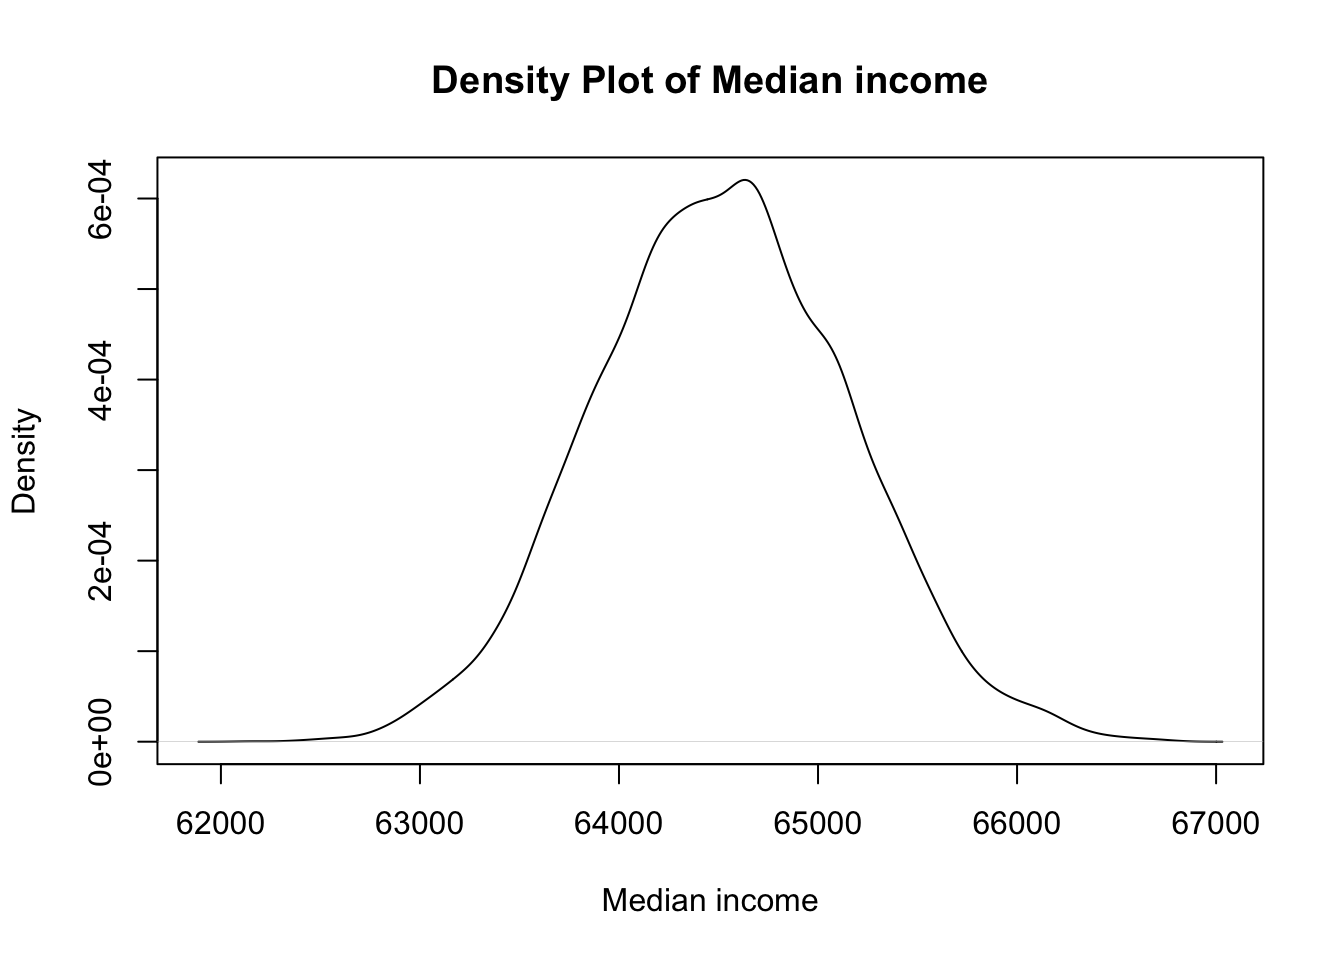
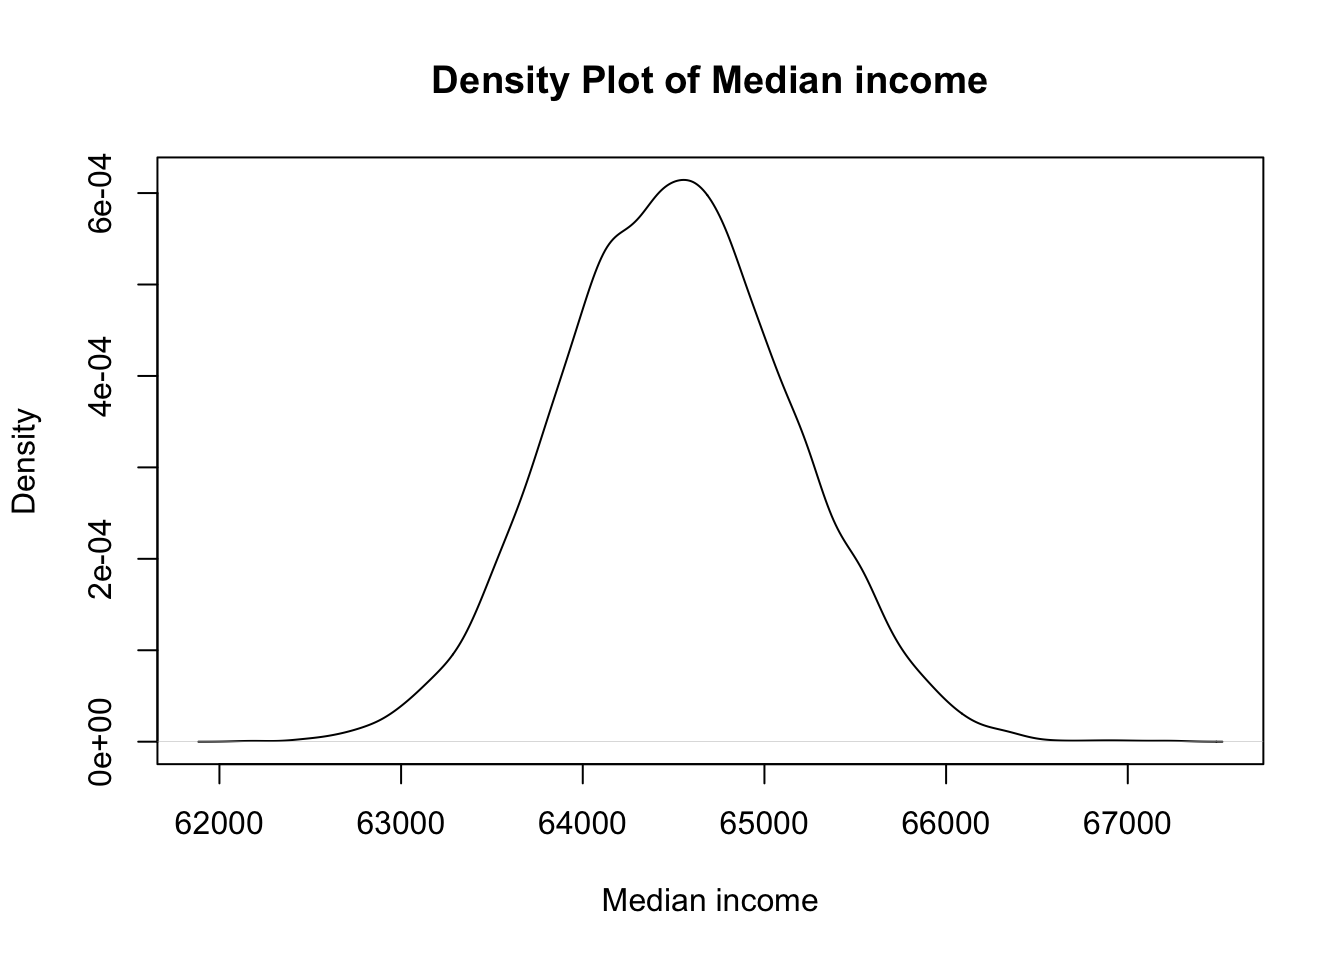
p2

diff --git a/docs/posts/montecarlo.html b/docs/posts/montecarlo.html
@@ -1017,7 +1017,7 @@ Income distribution is not normal
 </details>
 <div class="cell-output cell-output-stdout">
 <pre><code>     Min.   1st Qu.    Median      Mean   3rd Qu.      Max. 
-   199939    297295    345234    591490    440177 216712322 </code></pre>
+   214647    295488    342933    634398    432598 342014337 </code></pre>
 </div>
 <details open="" class="code-fold">
 <summary>Code</summary>
@@ -1025,7 +1025,7 @@ Income distribution is not normal
 </details>
 <div class="cell-output cell-output-stdout">
 <pre><code>   Min. 1st Qu.  Median    Mean 3rd Qu.    Max. 
-  62160   64084   64514   64518   64950   66759 </code></pre>
+  62158   64071   64502   64510   64938   67247 </code></pre>
 </div>
 <details open="" class="code-fold">
 <summary>Code</summary>
@@ -1033,7 +1033,7 @@ Income distribution is not normal
 </details>
 <div class="cell-output cell-output-stdout">
 <pre><code>     Min.   1st Qu.    Median      Mean   3rd Qu.      Max. 
-9.436e+05 3.357e+06 5.777e+06 2.967e+07 1.213e+07 2.164e+10 </code></pre>
+9.692e+05 3.316e+06 5.610e+06 3.415e+07 1.174e+07 3.415e+10 </code></pre>
 </div>
 </div>
 </section>

diff --git a/Revision notes/Adult pathology/polio-speaker.html b/Revision notes/Adult pathology/polio-speaker.html
@@ -354,7 +354,7 @@
     }
   </style>
 <meta property="og:title" content="knotes - Poliomyelitis">
-<meta property="og:description" content="PPRP">
+<meta property="og:description" content="Introduction for UG Students">
 <meta property="og:site_name" content="knotes">
 </head>
 <body class="quarto-light">
@@ -363,7 +363,7 @@
 
 <section id="title-slide" class="quarto-title-block center">
   <h1 class="title">Poliomyelitis</h1>
-  <p class="subtitle">PPRP</p>
+  <p class="subtitle">Introduction for UG Students</p>
 
 <div class="quarto-title-authors">
 <div class="quarto-title-author">
@@ -374,6 +374,10 @@ By Kishore Puthezhath
 </div>
 
 </section>
+<section id="see-with-your-device" class="slide level2">
+<h2>See with your device</h2>
+
+<img data-src="images/qr code.png" class="r-stretch"></section>
 <section id="poliomyelitis" class="slide level2">
 <h2>Poliomyelitis</h2>
 <p>Poliomyelitis is an acute infectious viral disease, spread by the oropharyngeal route that passes through several distinct phases.</p>

diff --git a/docs/Revision notes/Adult pathology/polio.html b/docs/Revision notes/Adult pathology/polio.html
@@ -354,7 +354,7 @@
     }
   </style>
 <meta property="og:title" content="knotes - Poliomyelitis">
-<meta property="og:description" content="PPRP">
+<meta property="og:description" content="Introduction for UG Students">
 <meta property="og:site_name" content="knotes">
 </head>
 <body class="quarto-light">
@@ -363,7 +363,7 @@
 
 <section id="title-slide" class="quarto-title-block center">
   <h1 class="title">Poliomyelitis</h1>
-  <p class="subtitle">PPRP</p>
+  <p class="subtitle">Introduction for UG Students</p>
 
 <div class="quarto-title-authors">
 <div class="quarto-title-author">
@@ -374,6 +374,10 @@ By Kishore Puthezhath
 </div>
 
 </section>
+<section id="see-with-your-device" class="slide level2">
+<h2>See with your device</h2>
+
+<img data-src="images/qr code.png" class="r-stretch"></section>
 <section id="poliomyelitis" class="slide level2">
 <h2>Poliomyelitis</h2>
 <p>Poliomyelitis is an acute infectious viral disease, spread by the oropharyngeal route that passes through several distinct phases.</p>

diff --git a/docs/Revision notes/Diagrams/diagrams.html b/docs/Revision notes/Diagrams/diagrams.html
@@ -1297,7 +1297,7 @@ window.document.addEventListener("DOMContentLoaded", function (event) {
 </div>
   </div>
 </footer>
-<script>var lightboxQuarto = GLightbox({"closeEffect":"zoom","descPosition":"bottom","selector":".lightbox","openEffect":"zoom","loop":false});
+<script>var lightboxQuarto = GLightbox({"descPosition":"bottom","selector":".lightbox","loop":false,"openEffect":"zoom","closeEffect":"zoom"});
 window.onload = () => {
   lightboxQuarto.on('slide_before_load', (data) => {
     const { slideIndex, slideNode, slideConfig, player, trigger } = data;
